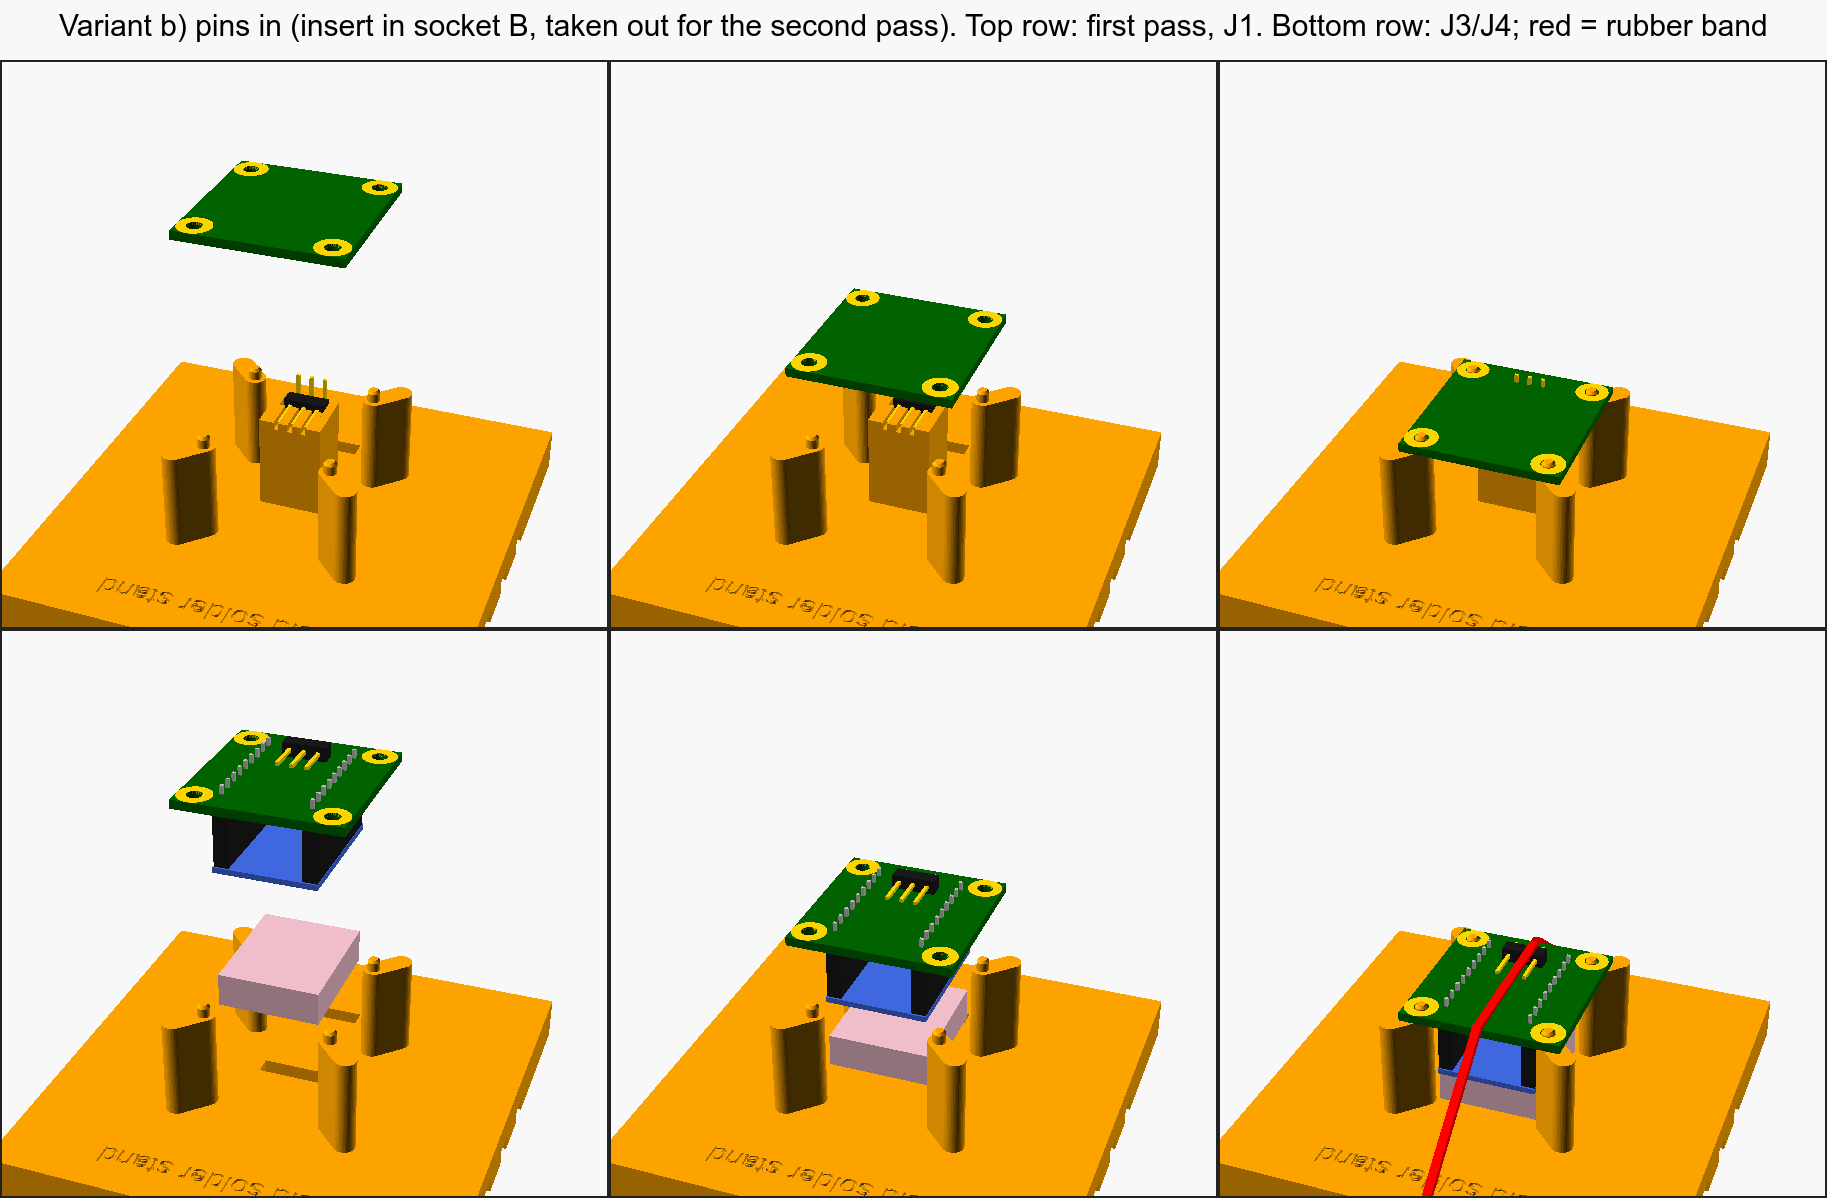
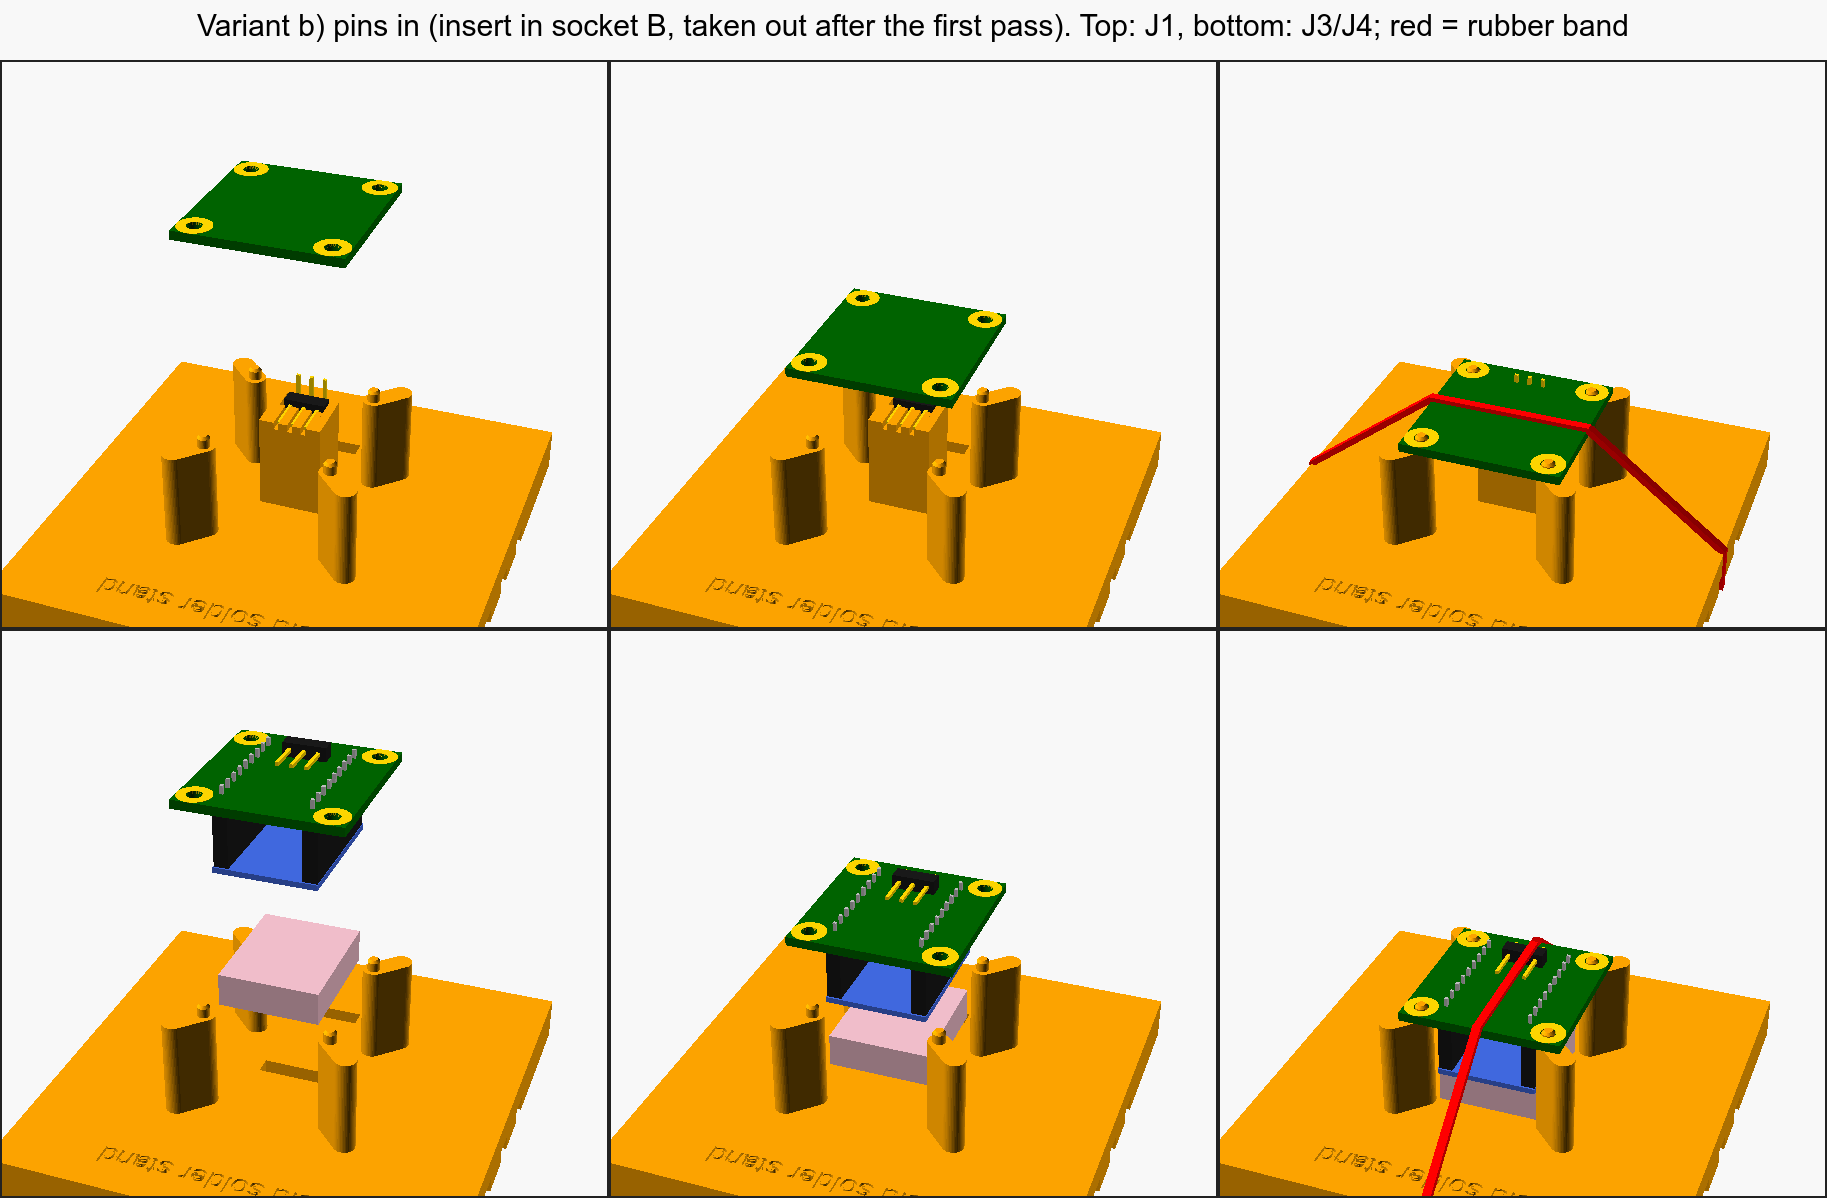
Variant b) checked against photos: the board turned over between the passes, band across in the first pass; docs and picture b updated

diff --git a/docs/soldering.md b/docs/soldering.md
@@ -69,17 +69,22 @@ two passes; it has not been checked against photos yet.
 
 ![The steps of the variant a), the pins out](../hardware/solder_stand/solder_stand_steps.png)
 
-### Variant b): the pins in (insert in socket B, turned by 180 degrees)
+### Variant b): the pins in (insert in socket B, turned by 180 degrees), two passes
+
+Checked against photos of the soldering (2026-11-23). J1 is on the opposite side of the board from the strips and the Zero, so the board is turned over between the passes.
 
 First pass, J1:
 
 1. Put the insert into socket B, turned by 180 degrees, under the board.
-2. Lay J1 on the insert, turned by 180 degrees as well: the body on the ledge, the long pins in the slots of the comb, the short
-   pins pointing up.
-3. **Hold the pins of J1 in place by hand**, and only then put the board on the posts, top side up (no foam).
-4. Solder J1 from the top side. Then **take the insert out** of socket B.
+2. Lay J1 on the insert, turned by 180 degrees as well: the body on the ledge, the long pins in the slots of the comb (they point into the board), the short pins up.
+3. **Hold the pins of J1 in place by hand**, and only then put the board on the posts with the **side with the components up** (no Zero, no foam). The short pins go through the holes of J1.
+4. Put the rubber band across the board, and solder J1 from the visible side. Then **take the insert out** of socket B.
 
-Second pass, J3 and J4: as in variant a), without the insert and without J1 (steps 3 to 5).
+Second pass, J3 and J4:
+
+1. Plug both 1x9 socket strips onto the pins of the Zero, and put the foam into the pocket.
+2. Put the board on the posts **turned over** (the soldered side with the J1 body up, the Zero and the strips below it).
+3. Put the rubber band lengthwise, over the body of J1 between its pins. Solder one pin at each end of every strip, check that everything sits flat, then solder the rest of J3 and J4.
 
 ![The steps of the variant b), the pins in](../hardware/solder_stand/solder_stand_steps_b.png)
 
